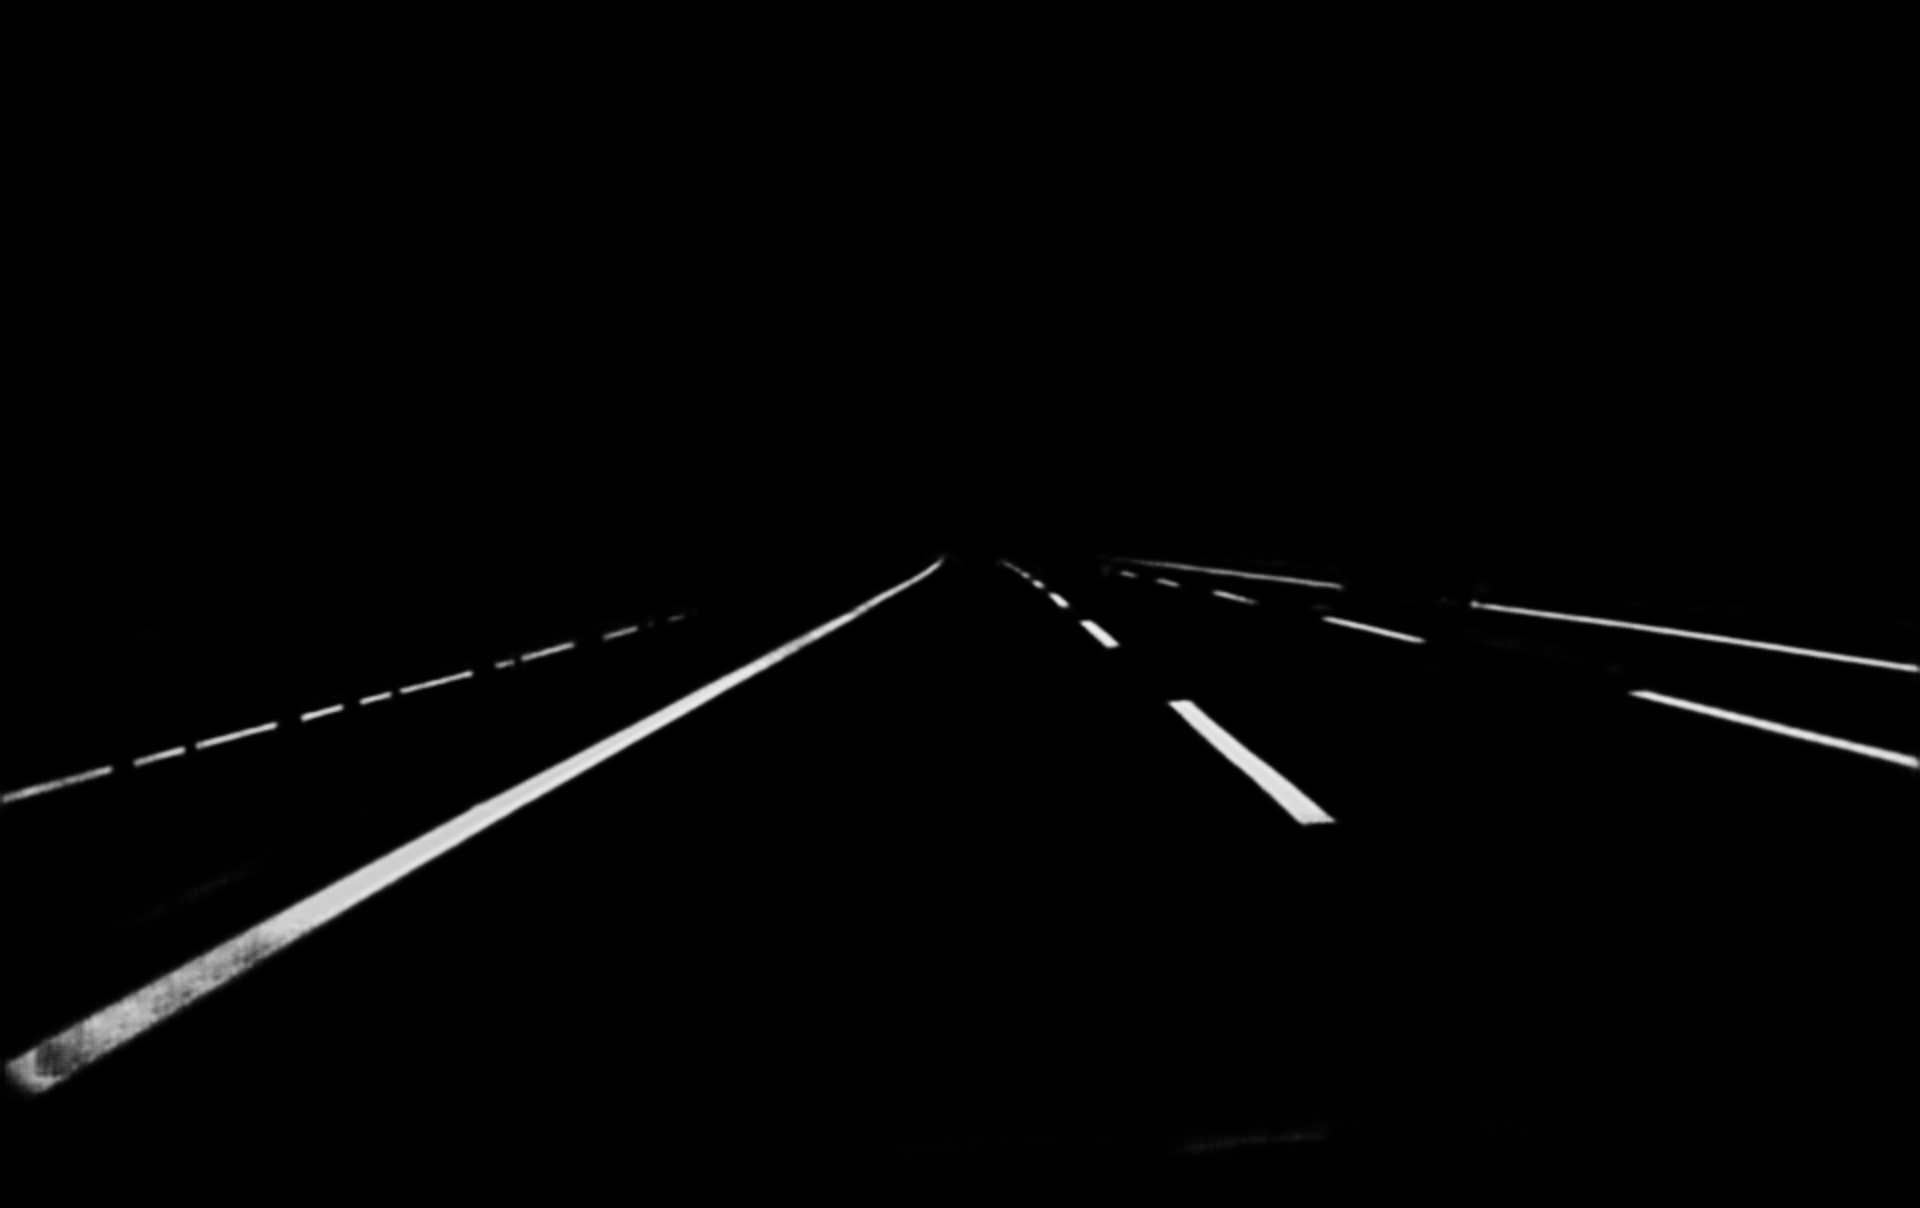
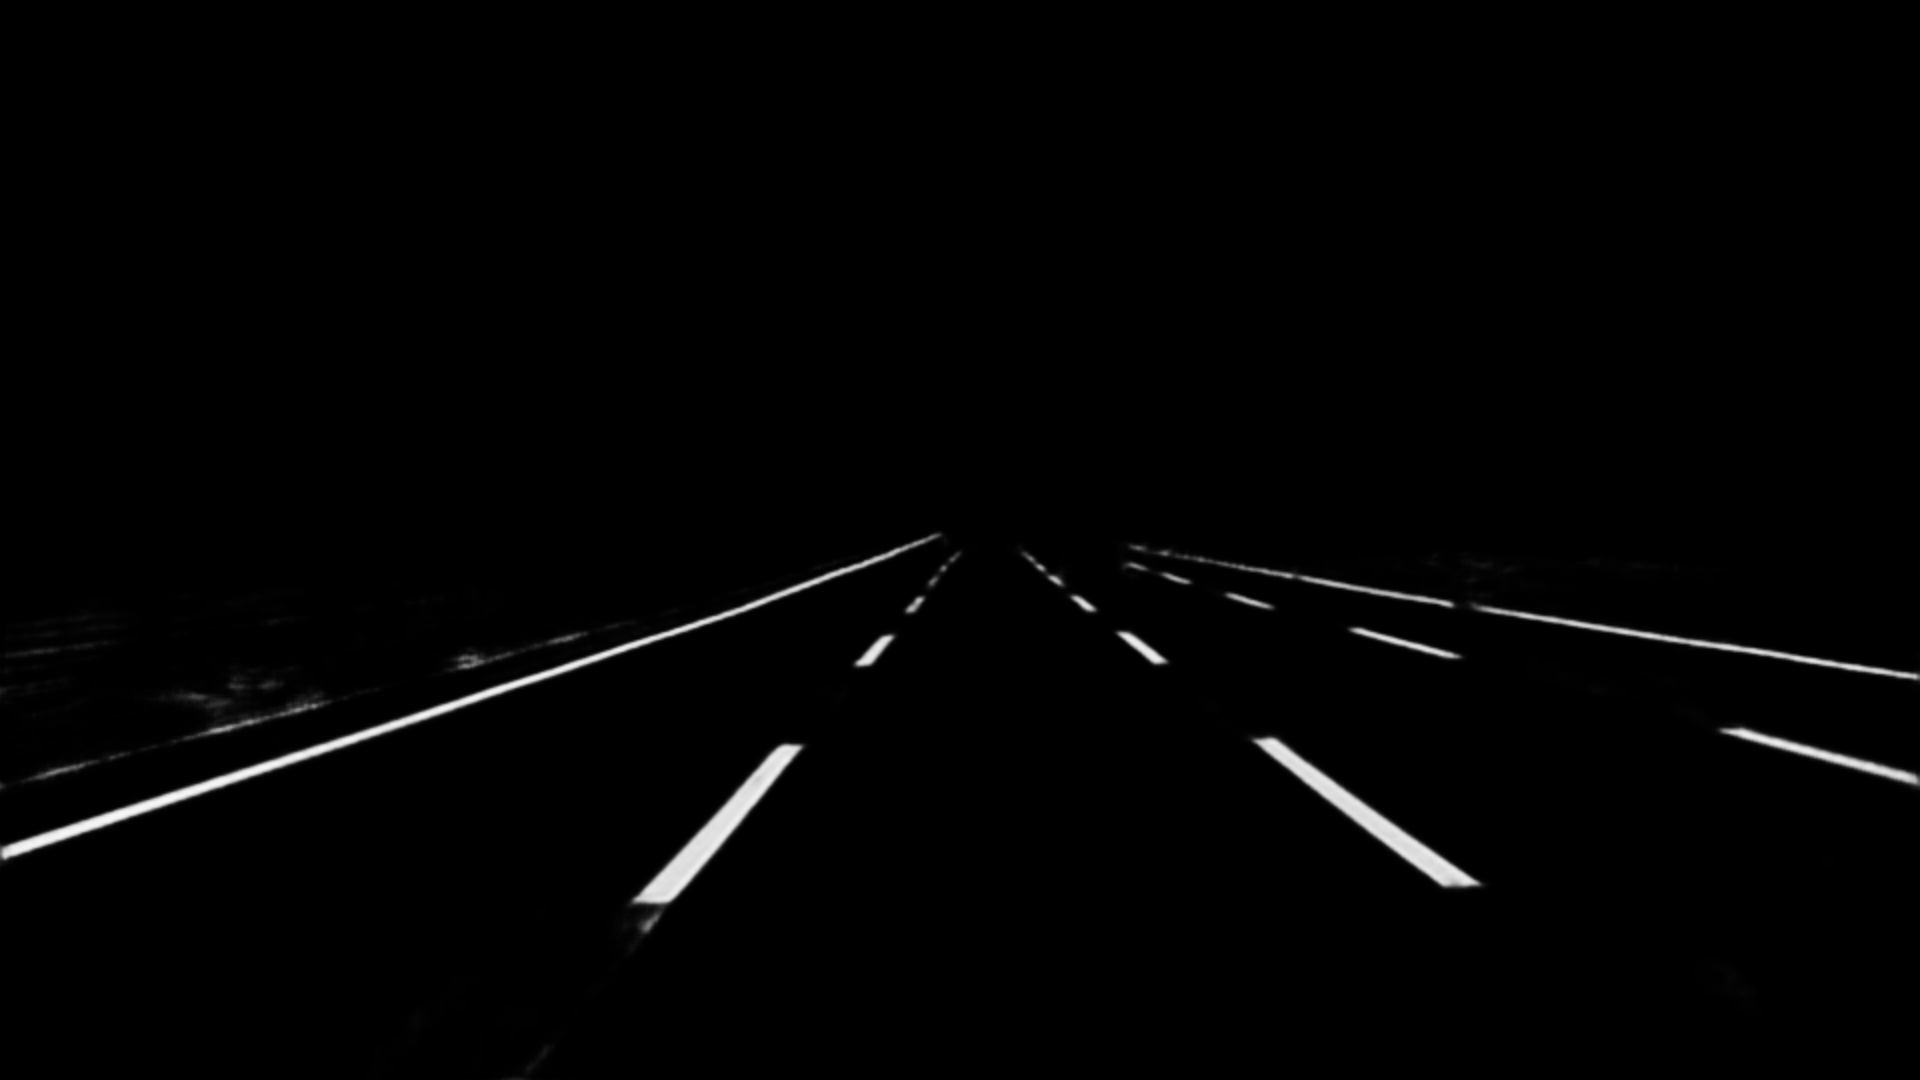
[Perception] Adapt to 1920x1080 image resolution by modify YoloCameraDetector config (#3508)
* add dag configuration file to test lane post-processing subnode

* [Perception] adapt to image resolution 1920x1080 by modifying YoloCameraDetection offset_ratio in config.pt.

* merge head commit

diff --git a/modules/perception/obstacle/camera/detector/yolo_camera_detector/yolo_camera_detector.cc b/modules/perception/obstacle/camera/detector/yolo_camera_detector/yolo_camera_detector.cc
@@ -87,15 +87,12 @@ void YoloCameraDetector::init_anchor(const string &yolo_root) {
   string types_file = apollo::common::util::GetAbsolutePath(
       model_root, model_param.types_file());
   yolo::load_types(types_file, &types_);
-  // res_box_tensor_.reset(new anakin::Tensor<float>());
-  // res_box_tensor_->Reshape(1, 1, obj_size_, s_box_block_size);
+
   res_box_tensor_.reset(
       new SyncedMemory(obj_size_ * s_box_block_size * sizeof(float)));
   res_box_tensor_->cpu_data();
   res_box_tensor_->gpu_data();
 
-  // res_cls_tensor_.reset(new anakin::Tensor<float>());
-  // res_cls_tensor_->Reshape(1, 1, types_.size(), obj_size_);
   res_cls_tensor_.reset(
       new SyncedMemory(types_.size() * obj_size_ * sizeof(float)));
   res_cls_tensor_->cpu_data();
@@ -156,6 +153,10 @@ void YoloCameraDetector::load_intrinsic(
 
   int roi_w = image_width_;
   int roi_h = image_height_ - offset_y_;
+
+  AINFO << "roi_w=" << roi_w << ", "
+        << "roi_h=" << roi_h;
+
   int channel = 3;
   image_data_.reset(
       new SyncedMemory(roi_w * roi_h * channel * sizeof(unsigned char)));

diff --git a/modules/perception/obstacle/camera/detector/yolo_camera_detector/yolo_camera_detector_test.cc b/modules/perception/obstacle/camera/detector/yolo_camera_detector/yolo_camera_detector_test.cc
@@ -91,7 +91,7 @@ TEST_F(YoloCameraDetectorTest, yolo_camera_detector_roipooling_test) {
   CHECK(camera_detector->Detect(frame, options, &objects));
   AINFO << "#objects detected = " << objects.size();
 
-  CHECK_EQ(objects.size(), 3);
+  CHECK_EQ(objects.size(), 2);
 
   int obj_idx = 0;
   for (const auto &obj : objects) {
@@ -126,7 +126,7 @@ TEST_F(YoloCameraDetectorTest, multi_task_test) {
   CHECK(camera_detector->Multitask(frame, options, &objects, &lane_map));
   AINFO << "#objects detected = " << objects.size();
 
-  CHECK_EQ(objects.size(), 3);
+  CHECK_EQ(objects.size(), 2);
 
   const std::string lane_map_result_file = FLAGS_test_dir + "lane_map.jpg";
   lane_map.convertTo(lane_map, CV_8UC3, 255.0f);
